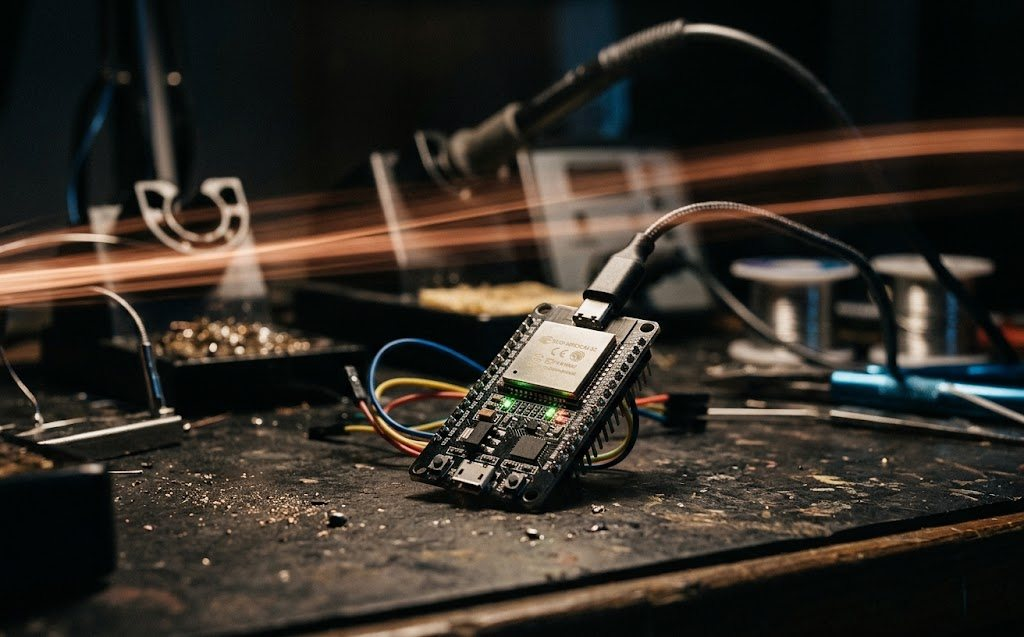
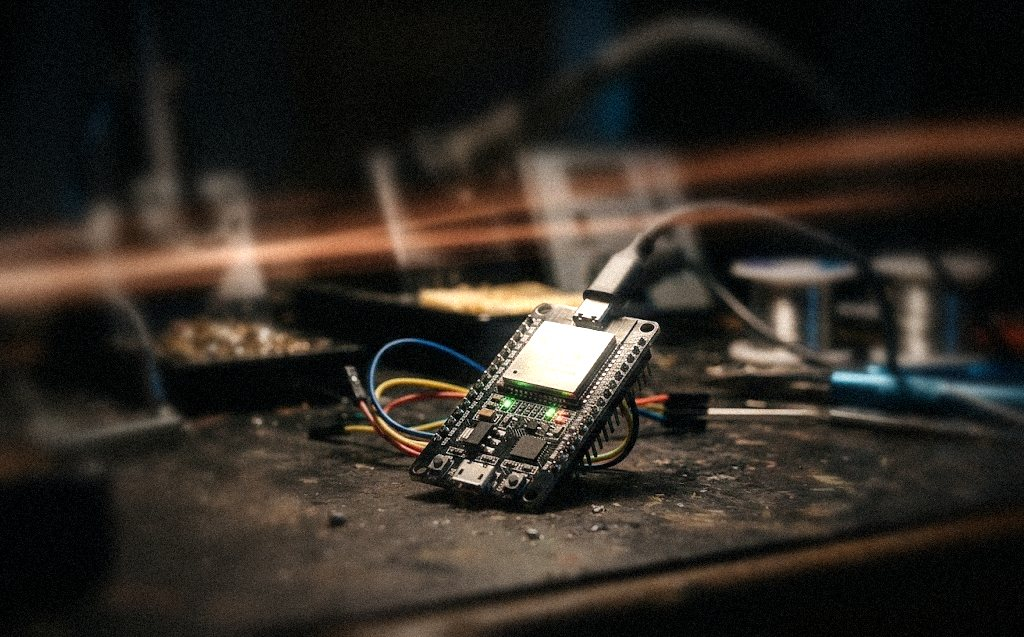
Long-exposure finish on the new photos
Depth-of-field blur around the subject, copper light streaks, bloom and grain; soft blur at rest that clears slowly on hover.

Claude-Session: https://claude.ai/code/session_01HLHaTjUnhn3KbXrzcBMixU

diff --git a/index.html b/index.html
@@ -247,9 +247,10 @@ pre.code.done code::after { animation: caret 1s steps(1) 3 forwards; }
 .tri { position: absolute; inset: 0; overflow: hidden; background: var(--mask); }
 .s1 { clip-path: polygon(0 0, calc(var(--a) - var(--g)) 0, calc(var(--b) - var(--g)) 100%, 0 100%); }
 .s2 { clip-path: polygon(calc(var(--a) + var(--g)) 0, 100% 0, 100% 100%, calc(var(--b) + var(--g)) 100%); }
-.tri img { position: absolute; left: var(--x, 0%); top: var(--y, 0%); width: var(--w, 120%); height: var(--w, 120%); max-width: none; object-fit: cover; opacity: 0; transition: opacity 2400ms ease-in-out, transform 4000ms cubic-bezier(.3, 0, .2, 1); }
+.tri img { position: absolute; left: var(--x, 0%); top: var(--y, 0%); width: var(--w, 120%); height: var(--w, 120%); max-width: none; object-fit: cover; opacity: 0; filter: blur(2.5px) saturate(.92); transition: opacity 2400ms ease-in-out, transform 4000ms cubic-bezier(.3, 0, .2, 1), filter 2400ms ease-in-out; }
 .tri img.on { opacity: 1; }
-.tri:hover img.on { transform: scale(1.02); }
+.tri:hover img.on { transform: scale(1.02); filter: none; }
+@media (hover: none) { .tri img { filter: blur(1px) saturate(.95); } }
 .tri::after { content: ""; position: absolute; inset: 0; pointer-events: none; }
 .s1::after { background: linear-gradient(135deg, rgba(5, 5, 6, .82) 0%, rgba(5, 5, 6, .35) 30%, rgba(5, 5, 6, 0) 52%); }
 .s2::after { background: linear-gradient(315deg, rgba(5, 5, 6, .82) 0%, rgba(5, 5, 6, .35) 30%, rgba(5, 5, 6, 0) 52%); }
